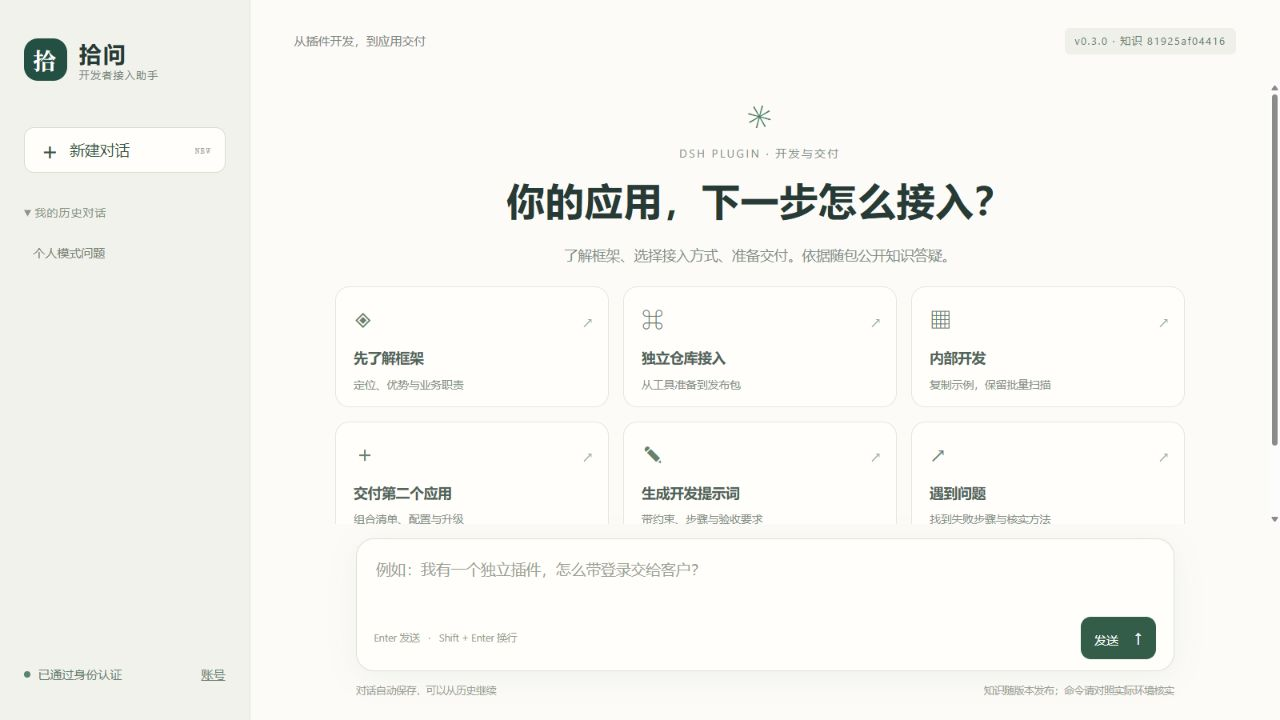
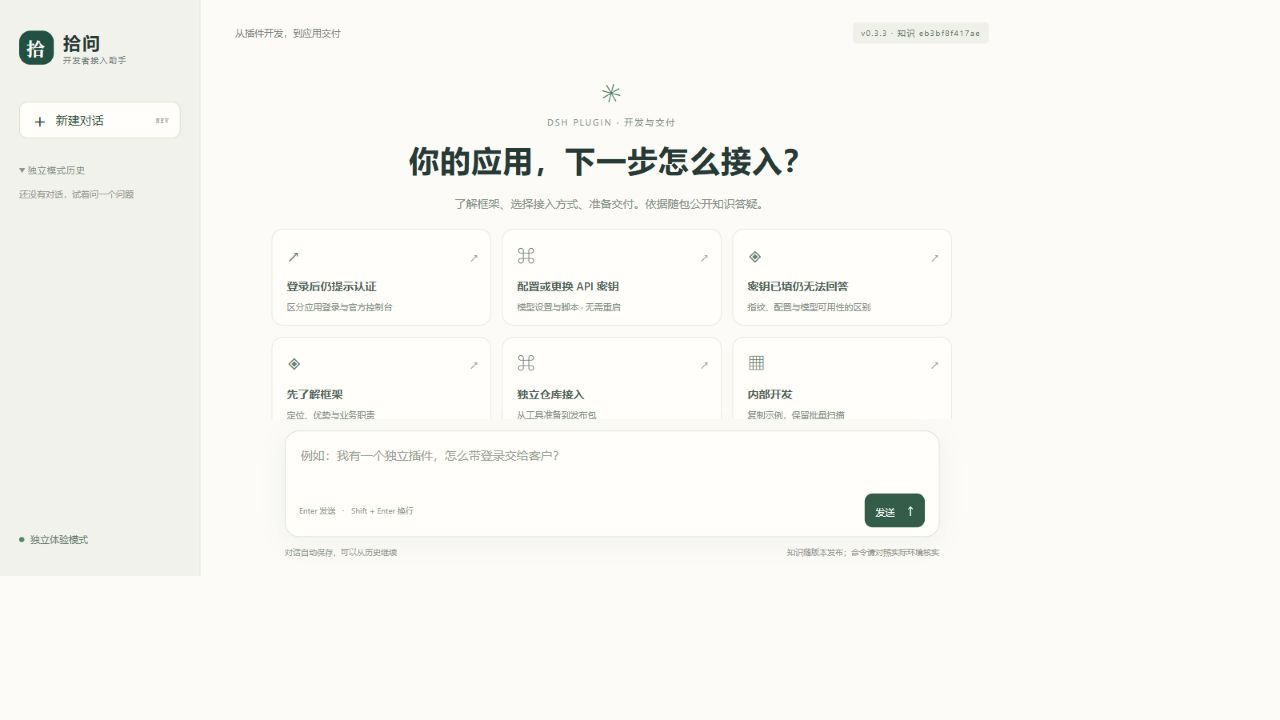
docs: prepare public tour and developer trial materials

diff --git a/doc/promotion-story.md b/doc/promotion-story.md
@@ -1,0 +1,81 @@
+# 给开源项目做一次“被发现”的准备：DSH Plugin Manager 的实践
+
+2026 年 9 月 7 日
+
+把项目推到 GitHub 以后，我开始考虑另一个问题：别人为什么会点开这个仓库，点开之后又为什么愿意试用？
+
+[DSH Plugin Manager](https://github.com/PelyDeng/dsh-plugin-manager) 是我基于 DeepSeek Harness 做的应用接入与交付管理框架。它沿用官方插件和 Bundle 机制，帮助开发者把应用打包、部署，并按需接入统一登录和应用授权。代码能运行只是起点，项目的用途、安装路径和验证边界也需要让第一次来的人看懂。
+
+这次我请 AI 协助检查公开仓库、整理材料和验证归档，自己负责真实服务器验收和熟人试用安排。这里记录的是这次做了什么、为什么做，以及哪些事情还没有完成。
+
+## 先检查别人实际会看到什么
+
+检查时，仓库已经有中文 README、部署文档和界面图片，也有几个项目名称相关的 Topics。但 About 的描述和 Website 为空，尚无 GitHub Release。
+
+这些事实不能直接解释项目有没有人关注，却能指出几个明确的障碍：搜索结果缺少一句话用途，第一次进来要先理解一套术语，想试用的人还要自己辨认从哪份文档开始。
+
+我把这次工作分成四个问题：能否找到、能否看懂、能否开始、遇到问题能否反馈。它们分别对应仓库元信息、首页与演示、部署与版本归档、试用反馈。没有哪一项能保证 Star 或用户增长，但每项都能减少一个具体障碍。
+
+## 把首页第一句话改成用户能得到什么
+
+首页现在的核心说明是：
+
+> 把 DeepSeek Harness 插件交付成团队可使用的应用：统一登录、应用授权、独立打包与部署。
+
+这句话先说明用途，后面再解释 Cordis、Bundle 和框架边界。我把演示图、部署入口、Release 和反馈入口放到首页靠前的位置，并补充了 [English README](../README.en.md)。英文版提供用途、前置条件和操作路径；目前应用界面和详细文档主要仍是中文，没有把“有英文简介”写成“已经完整国际化”。
+
+首页还保留了不适用的情况：只运行一个个人工具时，直接用官方 Bundle 可能更简单。项目不是对所有用户都更好的选择，说清楚适用范围，可以减少无效尝试和维护沟通。
+
+## 用公开演示说明完整路径
+
+我增加了[图文导览](quick-tour.md)，按“登录 → 应用授权 → 模型设置 → 问答”组织截图。它承担一个简单任务：让读者在安装之前知道自己将看到什么，以及每个入口负责什么。
+
+![公共应用管理页面](assets/app-management.png)
+
+截图只使用公共认证插件和示例应用。模型设置使用演示凭据服务，对话使用明确标注的模型替身；这些图片证明界面流程可以演示，不能替代真实模型验收。生产部署和真实模型问答由我另行完成并确认通过。
+
+这里有一个容易误导读者的细节：应用登录、官方控制台认证、模型 API 密钥是三件事。截图旁明确解释了它们的区别。“已配置”也只说明凭据存在，不能推导出余额、网络或模型一定可用。对首次体验来说，这类说明比多写几个功能名更有帮助。
+
+## 为搜索和社区介绍准备准确材料
+
+About 的描述准备采用：
+
+> Deploy and manage DeepSeek Harness apps with shared authentication, plugin packaging, and Docker deployment.
+
+Website 计划指向公开的图文导览。Topics 在保留原标签的基础上，补充 `deepseek`、`deepseek-harness`、`dsh-plugin`、`plugin-manager`、`self-hosted`。这些词与项目实际用途有关。[GitHub 的 Topics 说明](https://docs.github.com/en/repositories/managing-your-repositorys-settings-and-features/customizing-your-repository/classifying-your-repository-with-topics)介绍了按主题浏览和搜索仓库的方式；添加标签提供了发现入口，并不保证排名或流量。
+
+社区介绍选择官方 DeepSeek Harness 的插件展示分类，因为读者本身就关心 DSH 扩展。发帖材料按照[该分类规则](https://github.com/deepseek-ai/deepseek-harness/discussions/2004)整理：只介绍这一个项目，提供项目地址、用途、截图和实际集成方式，显著标明非官方身份，也不把社区互动解释成官方推荐。
+
+介绍重点是交付问题：作者在独立仓库开发，管理器读取声明与归档，运行继续交给官方宿主。真实模型选择、业务数据授权和第三方插件兼容性各有边界。相比笼统说“强大的插件平台”，这样的描述更容易让读者判断是否适合自己。
+
+## 让一个版本可以被明确地取得和核对
+
+这次准备的版本以 manager `0.3.2` 为标识，组件仍保留独立版本：kit `0.1.1`、auth `0.9.0`、example `0.3.3`。源码宿主基线为仓库锁定的 DeepSeek Harness `0.1.3-alpha.1` 提交；不能把相同显示版本号视为任意间接依赖都相同。
+
+发布准备包括管理器与 kit 工具包，以及只含公共 auth/example 的可移植发布清单和归档。校验值帮助接收者核对取得的文件，独立消费检查验证归档不依赖作者源码目录。归档不包含模型密钥、账号数据库、客户插件或运行数据。
+
+版本说明需要把构建、类型检查、归档消费、浏览器演示、真实服务器与真实模型验收分别记录。我已经完成并确认服务器和真实模型验收；本次传播材料不会把模型替身截图当作那次验收的证据，也不会承诺未经测试的宿主版本兼容。
+
+## 第一批试用由我自己找熟人
+
+我决定先自己联系熟人，不在社区帖公开招募。已经准备好[可转发邀请与反馈清单](try-it.md)，让对方知道需要什么环境、可能有什么费用，以及试用时应该观察什么。
+
+反馈关注的是实际行为：是否看懂用途、能否独立部署、首次登录和授权是否顺利、模型配置后能否回答、历史能否恢复。有条件的开发者再尝试独立插件打包。没有尝试的项目直接记录“未尝试”，不为了填满表格去碰生产环境。
+
+熟人反馈有样本偏差，也可能因为关系而更客气。因此我希望得到具体卡点和复现步骤，先修阻止第一次成功使用的问题。邀请人数和好评数量不能替代独立完成流程的人数；私人聊天和联系人信息也不进入公开仓库。
+
+## 本次交付状态与后续观察
+
+| 工作 | 当前状态 | 意义 |
+| --- | --- | --- |
+| 首页用途、入口与英文介绍 | 已写入仓库文档 | 让首次访问者理解用途并找到下一步 |
+| 公共界面截图与图文导览 | 已完成隔离环境截图 | 在安装前解释流程与认证边界 |
+| 熟人邀请和反馈清单 | 已准备，由我自行联系 | 收集首次使用中的具体问题 |
+| 公共工具与插件归档 | 已构建，独立消费检查通过 | 降低取得和核对交付物的成本 |
+| GitHub About、Website、Topics | 文案已准备，外部设置待完成 | 提供用途说明和相关主题入口 |
+| GitHub Release 与社区介绍帖 | 材料已准备，尚未发布 | 提供固定版本入口和面向相关开发者的介绍 |
+| 外部开发者反馈及增长结果 | 尚未收集 | 必须等真实使用发生后再评价 |
+
+外部发布在本次操作中遇到 GitHub 登录/浏览器连接阻碍，因此没有把“材料准备好”写成“已经发布”。后续完成时应补充真实 Release 和 Discussion 链接，而不是只写一个完成标记。
+
+接下来我会观察熟人能否独立跑通、哪些步骤最容易停住、哪些问题重复出现，再结合实际反馈调整文档和产品。Star 可以作为关注信号，但第一次问答成功、独立打包成功、愿意再次使用，更接近这个框架希望解决的问题。准备传播材料只是开始，是否对别人有用，需要由使用结果回答。

diff --git a/README.en.md b/README.en.md
@@ -1,0 +1,79 @@
+# DSH Plugin Manager
+
+[中文](README.md) · [Visual tour (Chinese)](doc/quick-tour.md) · [Releases](https://github.com/PelyDeng/dsh-plugin-manager/releases) · [Report an issue](https://github.com/PelyDeng/dsh-plugin-manager/issues)
+
+**Deliver DeepSeek Harness plugins as apps for your team: shared login, app access control, independent packaging, and deployment.**
+
+Build your app in its own repository, declare how it is packaged and configured, and run it on official [DeepSeek Harness](https://github.com/deepseek-ai/deepseek-harness). DSH Plugin Manager uses Cordis plugins, Bundles, and Agents without modifying the host source. Authentication is optional.
+
+> Unofficial project, independently developed and maintained by community members. This is not a DeepSeek product or endorsement.
+
+![Developer assistant with suggested questions and personal conversation history](doc/assets/developer-assistant.png)
+
+## Where it fits
+
+| Component | Responsibility |
+| --- | --- |
+| Official DeepSeek Harness | Plugin runtime, Bundle composition, Agents, models, and sessions |
+| DSH Plugin Manager | Plugin declarations, packaging, release composition, configuration, installation, and controlled lifecycle |
+| Optional `dsh-auth` | Accounts, login, and app access grants |
+| Your app | Tools, pages, business rules, and data authorization |
+
+For one personal tool, an official Bundle may be enough. This project is useful when you need to deliver several apps to a team or customer. App access does not grant access to every business record: each app must still enforce its own data permissions.
+
+## Start with the included apps
+
+The default source deployment includes `dsh-auth` and `dsh-example`, a developer assistant demonstrating streaming chat, personal history, and optional authentication. Its interface and most detailed guides are currently in Chinese.
+
+On Linux, prepare Git, Node.js `^22.19.0 || >=24`, npm, Docker with the Compose plugin and named build context support, `tar`, and `flock`. The deployment script installs the pinned pnpm version when needed. It does not install system packages, configure a firewall, or set up a reverse proxy.
+
+```sh
+git clone --recurse-submodules https://github.com/PelyDeng/dsh-plugin-manager.git
+cd dsh-plugin-manager
+bash deploy/build.sh
+```
+
+1. Open `http://127.0.0.1:7902/auth`, sign in using the initial administrator procedure in the [auth guide](plugins/dsh-auth/README.md), and change the initial password.
+2. Create a regular account and grant it access to `example`.
+3. For the default DeepSeek provider, open the administrator's **模型设置** (Model settings) menu and enter your own API key. Saving applies to subsequent requests without a restart. The page returns only configuration status and a SHA-256 fingerprint, never the original key. A configured key has not necessarily been validated by the model provider.
+4. Open `/example` as the regular user and send a question. Check the streamed answer and restored conversation history. Default model selection and other providers remain in the official model settings.
+
+The listener binds to loopback by default. For a remote server, use an SSH tunnel or configure a reverse proxy and the matching `publicOrigin`/`publicUrl`. The [deployment guide](doc/first-deployment.md) covers prerequisites, URLs, backups, and recovery. First builds require access to package and image sources; model use requires your own provider account and may incur charges.
+
+Authentication at `/auth`, the official console at `/`, and the model API key are separate. An official console authentication error is not an API-key error. See the [FAQ](doc/FAQ.md).
+
+## Develop and distribute your own app
+
+| Starting point | Use it for |
+| --- | --- |
+| [Minimal standalone Bundle](examples/standalone-plugin/README.md) | Packaging and delivery without the kit |
+| [Shared identity example](examples/standalone-kit/README.md) | Login and app access integration |
+| [Full chat app](doc/plugin-development.md#复制完整问答应用到独立仓库) | Streaming, history, and developer knowledge examples |
+
+Install the versioned manager tool archive as described in the [delivery guide](packages/plugin-manager/DELIVERY.md); package names do not imply availability on npm. From the tools directory:
+
+```sh
+pnpm exec dsh-plugin-manager list --root /path/to/author-project --package .
+pnpm exec dsh-plugin-manager pack --root /path/to/author-project --package . --output .local/artifacts/release
+```
+
+External projects currently support pnpm single-package projects and release deployment. Source-free release composition lets an operator combine archives from multiple authors. Internal `plugins/*` workspaces remain supported. See the [author guide](doc/plugin-development.md).
+
+## Update and verify
+
+For an existing source deployment, preserve its checkout, configuration, `.local/data`, `.local/artifacts`, and backups:
+
+```sh
+git pull --ff-only --recurse-submodules
+bash deploy/build.sh
+```
+
+Do not delete `.local` to recover a failed deployment. Follow the [recovery instructions](doc/first-deployment.md#更新与恢复).
+
+Host compatibility is verified against specific versions; arbitrary community plugins and host versions are not automatically supported. Build checks, archive-consumption checks, browser checks, and real-model acceptance are distinct. See each release's evidence and limitations.
+
+## Contribute
+
+Bug reports should include the commit or release, environment, reproduction steps, and redacted error output. Never share API keys, console authentication URLs, passwords, or customer data. See [CONTRIBUTING](CONTRIBUTING.md), [SECURITY](SECURITY.md), and the [documentation index](doc/README.md).
+
+Repository-owned code is licensed under [Apache-2.0](LICENSE). Third-party components retain their own licenses; see [NOTICE](NOTICE) and [THIRD_PARTY_NOTICES](THIRD_PARTY_NOTICES.md).

diff --git a/doc/try-it.md b/doc/try-it.md
@@ -1,0 +1,42 @@
+# 熟人试用邀请与反馈清单
+
+维护者自行联系熟人试用。下面的邀请可以直接转发；试用人数、完成情况和反馈不预填，不在社区介绍帖中公开招募。
+
+## 可转发的邀请
+
+我做了一个开源项目 DSH Plugin Manager，用于把 DeepSeek Harness 插件交付成团队可用的应用，包含可选统一登录、应用授权、独立打包和部署。
+
+想请你按文档试用一次，看看第一次接触的人能不能顺利跑起来。无需写好评或点赞；哪里看不懂、哪里卡住，都比一句“挺好”更有帮助。
+
+项目：[PelyDeng/dsh-plugin-manager](https://github.com/PelyDeng/dsh-plugin-manager)
+
+先看：[图文导览](quick-tour.md)，准备实际运行时看 [Linux Docker 首次部署](first-deployment.md)。没有合适环境也可以只检查文档，反馈你是否能理解项目用途和下一步。
+
+实际部署需要安装依赖、拉取镜像，并使用自己的模型账号。首次构建时间取决于机器与网络；模型问答可能产生提供方费用。请使用测试环境和测试数据，不发真实密钥、控制台令牌或业务数据。
+
+希望你依次体验：首次登录并改密、创建普通账号并授权、录入模型密钥、普通账号完成一次问答、刷新后恢复历史。愿意继续开发的话，再试一下最小独立 Bundle 的打包流程。
+
+反馈可以直接私下发给我；适合公开复现的问题也可提交到 [GitHub Issues](https://github.com/PelyDeng/dsh-plugin-manager/issues)。
+
+## 反馈清单
+
+| 项目 | 请填写实际情况 |
+| --- | --- |
+| 版本 | Release 或完整提交号 |
+| 环境 | 操作系统、Node、Docker/Compose、安装方式；无需公网 IP |
+| 对项目用途的理解 | 用自己的话描述它解决什么问题 |
+| 文档理解 | 最先点了哪个入口？哪一步不知道该做什么？ |
+| 部署结果 | 完成 / 失败 / 未尝试；记录实际耗时，区分下载与操作时间 |
+| 登录与授权 | 管理员改密、普通用户授权、未授权访问各自结果 |
+| 模型设置 | 保存和更换是否生效；仅报告结果，不附密钥或指纹 |
+| 首次问答 | 是否收到流式回答，刷新后能否找回历史 |
+| 独立开发（可选） | 是否完成最小插件打包；卡住的具体命令 |
+| 最需要改的一件事 | 具体页面、命令或文档段落 |
+
+报错请提供最少复现步骤、预期与实际结果、经过脱敏的错误片段。记录“未尝试”即可，不要为填满清单使用不熟悉的生产环境。安全问题按照 [SECURITY](../SECURITY.md) 处理。
+
+## 如何整理反馈
+
+维护者在自己的非公开笔记中记录联系人和沟通情况。经对方同意后，将可复现的问题整理为公开 Issue；不要把私人聊天、联系方式或完整运行日志提交仓库。
+
+先处理阻止首次运行、首次登录和首次问答的问题，再看文案与便利性。熟人样本有关系和技术背景偏差，不能把他们的好评当成广泛需求验证。实际独立完成流程的人数和卡点，比邀请人数更有用。

diff --git a/doc/quick-tour.md b/doc/quick-tour.md
@@ -1,0 +1,44 @@
+# 从登录到首次问答：DSH Plugin Manager 图文导览
+
+这是一套围绕官方 DeepSeek Harness 的应用交付工具。管理员管理账号、应用访问权限和默认 DeepSeek 密钥；普通用户进入已授权的应用。作者可以在自己的仓库开发，通过声明打包交付。
+
+[开始 Linux Docker 部署](first-deployment.md) · [English introduction](../README.en.md) · [完整 CLI 体验](getting-started.md) · [FAQ](FAQ.md)
+
+## 1. 登录独立的应用门户
+
+从 `/auth` 进入。首次管理员登录需要修改初始密码，再继续账号和应用管理。
+
+![统一登录页面](assets/login.png)
+
+插件账号登录与官方控制台根路径 `/` 的认证独立。看到 `dsh web authentication required` 时，应使用官方启动生成的认证地址；填写模型 API 密钥不能解决这个认证提示。
+
+## 2. 给账号授权应用
+
+管理员在“用户管理”创建普通账号、设置应用授权；用户在“插件”页打开已授权的应用。应用内部的数据权限仍由业务插件检查。
+
+![公共插件目录：统一认证与开发者接入助手](assets/app-management.png)
+
+## 3. 配置默认 DeepSeek 密钥
+
+管理员打开“模型设置”，录入自己的 API 密钥。保存或更换后，后续请求无需重启即可使用新密钥；页面只显示状态和 SHA-256 指纹，不返回原密钥。指纹用于比较是否更换，不是可还原的加密密钥。
+
+![管理员模型设置：状态与指纹](assets/admin-model-settings.png)
+
+“已配置”表示凭据存在，不代表余额、网络、提供方授权或实际模型调用已经通过。其他提供方和默认模型选择在官方模型设置中处理。服务器也可通过[交互式脚本](first-deployment.md#首次登录与模型密钥)录入；脚本和网页复用同一凭据操作。
+
+## 4. 在应用里完成问答
+
+用已授权的普通账号打开 `/example`，点击快捷问题或输入自己的问题，观察流式回答。刷新后从左侧历史继续会话。
+
+![开发者接入助手：首页与快捷问题](assets/developer-assistant.png)
+
+![流式对话演示，回答来自明确标注的隔离模型替身](assets/example-conversation.png)
+
+本页新增管理与对话截图来自公共 auth/example 的隔离演示环境，凭据服务和模型使用测试替身，不包含真实密钥或客户应用。对话图展示界面行为，不能作为真实模型问答成功的证据。实际部署请使用自己的模型完成一次新对话，再确认历史恢复。早期登录截图用于说明入口，具体文案以当前版本为准。
+
+## 下一步
+
+- 运行站点：[首次部署及恢复](first-deployment.md)。
+- 写自己的插件：[最小独立 Bundle](../examples/standalone-plugin/README.md)，或[统一身份示例](../examples/standalone-kit/README.md)。
+- 交付现有应用：[源码之外的发布物交付](../packages/plugin-manager/DELIVERY.md)。
+- 反馈体验：[反馈清单](try-it.md)，公开问题提交到 [Issues](https://github.com/PelyDeng/dsh-plugin-manager/issues)。

diff --git a/README.md b/README.md
@@ -1,8 +1,16 @@
 # DSH Plugin Manager
 
-基于 [DeepSeek Harness](https://github.com/deepseek-ai/deepseek-harness) 的应用接入与交付管理框架，面向将插件或智能体应用交付给团队、客户使用的独立开发者和小团队。
+[English](README.en.md) · [图文导览](doc/quick-tour.md) · [部署指南](doc/first-deployment.md) · [Releases](https://github.com/PelyDeng/dsh-plugin-manager/releases) · [反馈问题](https://github.com/PelyDeng/dsh-plugin-manager/issues)
 
-**在自己的仓库开发，按统一声明打包，在 DSH 中运行和管理。** 沿用官方 Cordis 插件、Bundle 和 Agent，无需修改 DSH 源码；统一账号与应用授权按需接入。
+**把 DeepSeek Harness 插件交付成团队可使用的应用：统一登录、应用授权、独立打包与部署。**
+
+面向独立开发者和小团队。你在自己的仓库开发应用，框架按声明组合发布物，在官方 [DeepSeek Harness](https://github.com/deepseek-ai/deepseek-harness) 中运行。沿用 Cordis 插件、Bundle 和 Agent，无需修改 DSH 源码；认证按需启用。
+
+> 社区独立维护的非官方项目，不代表 DeepSeek 官方产品或推荐。
+
+![开发者接入助手：快捷问题、流式对话与个人历史](doc/assets/developer-assistant.png)
+
+已有 Linux Docker 环境？从[首次部署](doc/first-deployment.md)开始，完成“登录 → 授权 → 配置模型 → 首次问答”。只想先看效果，请看[图文导览](doc/quick-tour.md)。
 
 | 你想做什么 | 从这里开始 |
 | --- | --- |
@@ -40,9 +48,7 @@
 
 内置 `dsh-example` 是开发者接入助手，展示提问、流式回答、个人历史和可选认证的接入方式。
 
-![开发者接入助手：首页问题入口与个人历史](doc/assets/developer-assistant.png)
-
-实际问答需先配置模型，操作见[图文体验手册](doc/getting-started.md)。
+登录、模型设置与问答步骤见[图文导览](doc/quick-tour.md)。实际问答需先配置自己的模型凭据。
 
 ## 与官方 DSH 的关系
 
@@ -77,7 +83,7 @@ bash deploy/build.sh
 
 ### 第三步：完成一次问答
 
-在同一个实例的官方模型设置中配置默认模型与凭据，再发送一个问题，确认能收到流式回答并恢复历史对话。详细操作见[模型准备](packages/plugin-manager/DELIVERY.md#问答应用的模型准备)。
+使用默认 DeepSeek 提供方时，管理员在 `/auth` 的“模型设置”录入 API 密钥，无需重启；页面只显示配置状态与不可逆指纹。默认模型选择或其他提供方仍由同一实例的官方模型设置管理。随后在 `/example` 新建对话，确认收到流式回答并能恢复历史。详细操作见[模型准备](packages/plugin-manager/DELIVERY.md#问答应用的模型准备)。
 
 ## 开发自己的插件
 

diff --git a/doc/README.md b/doc/README.md
@@ -6,6 +6,8 @@
 
 ## 第一次使用
 
+先看 [图文导览](quick-tour.md)；参与维护者邀请的试用可使用[反馈清单](try-it.md)。English introduction: [README.en.md](../README.en.md)。
+
 1. [图文体验：启动第一个应用](getting-started.md)——准备工具、打包、启动、登录与问答。
 2. [Linux Docker 一键部署](first-deployment.md)——在服务器运行完整源码站点的另一条路径。
 3. [进阶：加入第二个应用](getting-started.md#进阶加入第二个应用)——组合不同作者的交付物，保留原应用与账号。
@@ -35,3 +37,7 @@
 | 框架和官方 DSH 的职责 | [架构与包职责](architecture.md) |
 | 开发、授权及第二应用问题 | [开发者 FAQ](../plugins/dsh-example/knowledge/guide.md) |
 | 让 AI 协助开发 | [五种可复制开发提示词](../plugins/dsh-example/knowledge/prompts.md) |
+
+## 项目实践
+
+[开源项目的发现与试用准备记录](promotion-story.md)——首页、演示、发布材料和熟人反馈安排，包含实际完成情况与验证边界。
